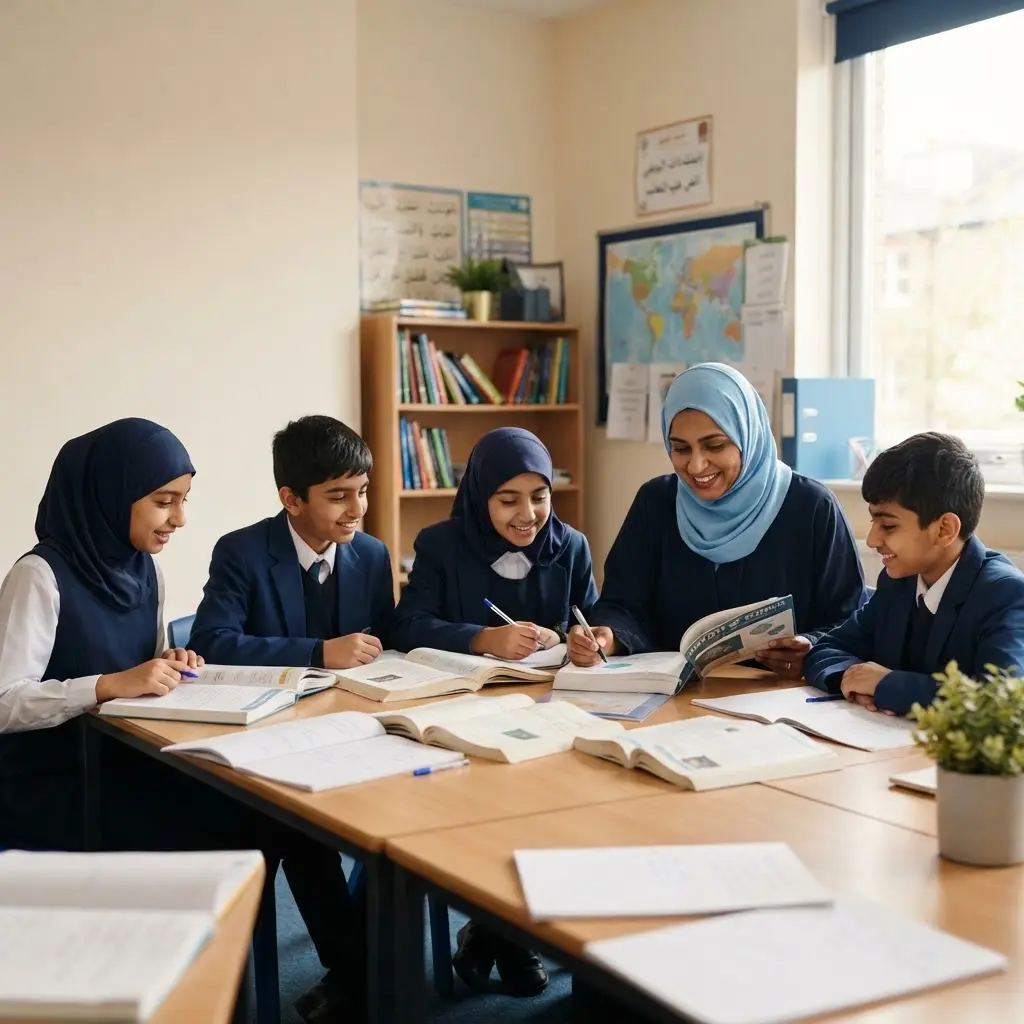
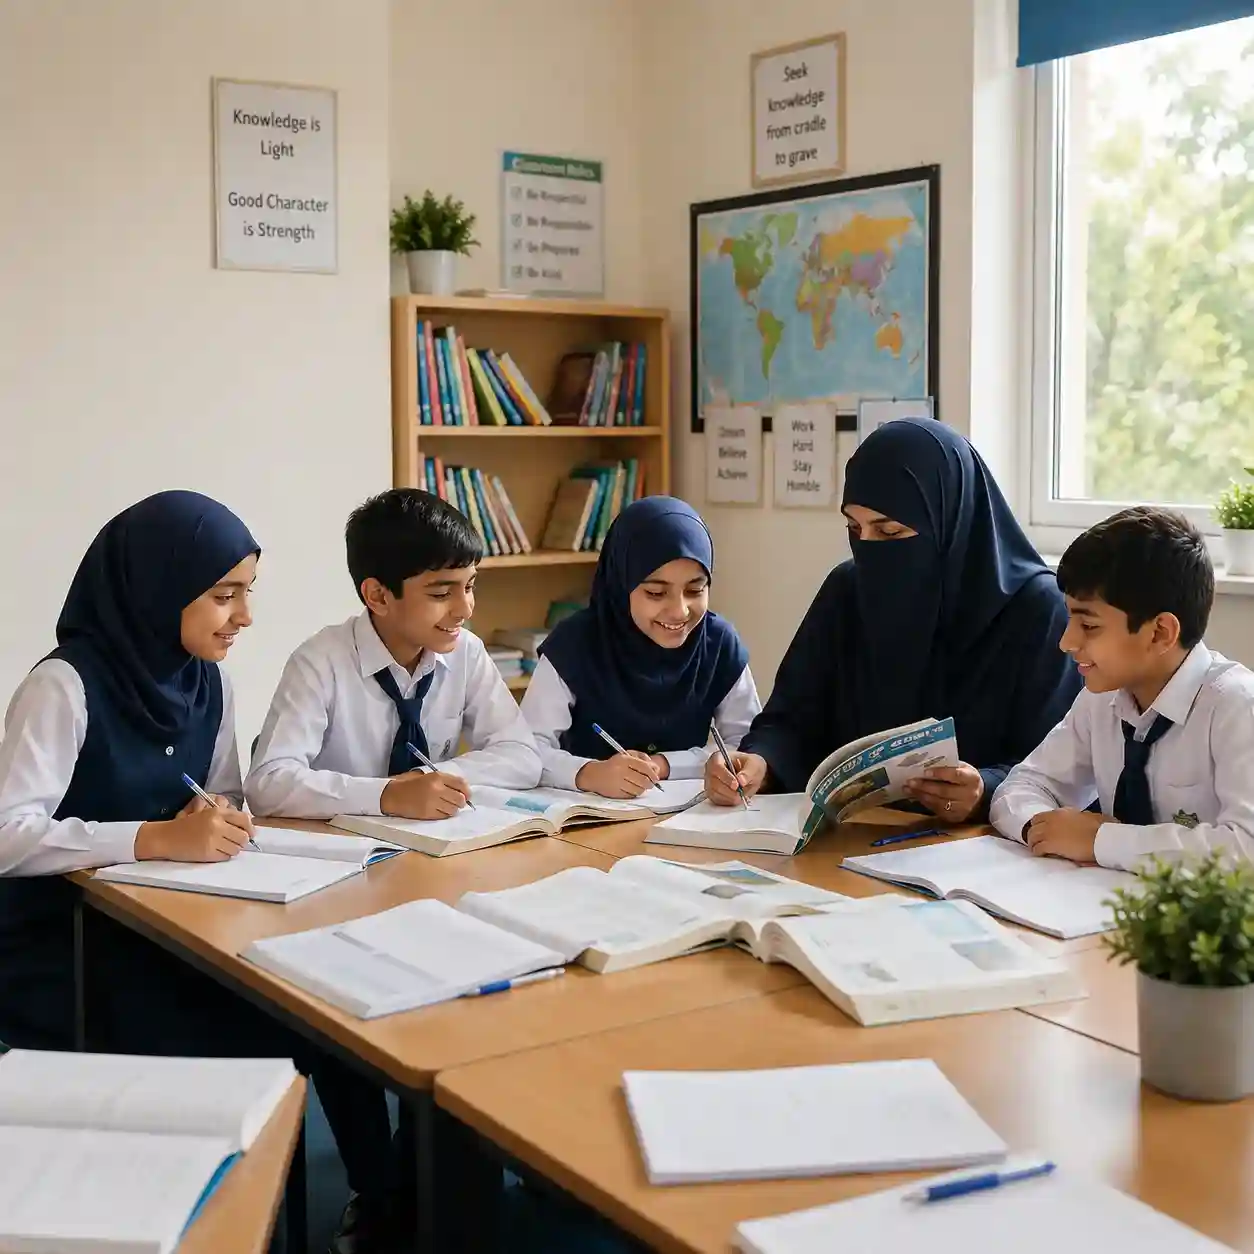
feat: Updated images of about and home section

diff --git a/components/home-hero.tsx b/components/home-hero.tsx
@@ -61,13 +61,13 @@ export function HomeHero() {
           <div className="absolute -bottom-5 -left-5 h-full w-full rounded-[2rem] bg-brand-sky" />
           <div className="relative overflow-hidden rounded-[2rem] border-8 border-brand-navy bg-brand-navy shadow-2xl shadow-brand-navy/20">
             <Image src="/images/about-classroom.webp" alt="Students learning together in an AMFS classroom" width={900} height={650} priority className="aspect-[4/3] w-full object-cover" />
-            <div className="absolute bottom-4 left-4 right-4 flex items-center justify-between rounded-2xl bg-white/95 p-4 shadow-lg backdrop-blur sm:bottom-5 sm:left-5 sm:right-5">
+            {/* <div className="absolute bottom-4 left-4 right-4 flex items-center justify-between rounded-2xl bg-white/95 p-4 shadow-lg backdrop-blur sm:bottom-5 sm:left-5 sm:right-5">
               <div>
                 <p className="text-[10px] font-bold uppercase tracking-[0.2em] text-brand-sky">Learning together</p>
                 <p className="mt-1 font-serif text-lg font-bold text-brand-navy">Every child can thrive.</p>
               </div>
               <LearningIllustration />
-            </div>
+            </div> */}
           </div>
           <div className="absolute -right-3 -top-5 rounded-2xl bg-brand-gold px-4 py-3 text-brand-navy shadow-lg sm:-right-6 sm:-top-6">
             <p className="font-serif text-2xl font-bold leading-none">5</p>

diff --git a/components/home-about.tsx b/components/home-about.tsx
@@ -14,10 +14,10 @@ export function HomeAbout() {
       <div className="mx-auto grid max-w-7xl gap-12 px-4 sm:px-6 lg:grid-cols-[1.05fr_0.95fr] lg:items-center lg:gap-20 lg:px-8">
         <div className="relative min-h-[450px]">
           <div className="absolute left-0 top-10 h-[72%] w-[68%] overflow-hidden rounded-[2rem] border-8 border-white shadow-xl">
-            <Image src="/images/about-learning.webp" alt="A child engaged in creative learning at AMFS" fill className="object-cover" />
+            <Image src="/images/about-classroom.webp" alt="A child engaged in creative learning at AMFS" fill className="object-cover" />
           </div>
           <div className="absolute bottom-0 right-0 h-[62%] w-[62%] overflow-hidden rounded-[2rem] border-8 border-brand-navy shadow-xl">
-            <Image src="/images/about-classroom.webp" alt="An AMFS classroom filled with collaborative learning" fill className="object-cover" />
+            <Image src="/images/about-learning.webp" alt="An AMFS classroom filled with collaborative learning" fill className="object-cover" />
           </div>
           <div className="absolute left-1/2 top-0 flex h-20 w-20 -translate-x-1/2 items-center justify-center rounded-full bg-brand-gold shadow-lg">
             <BookOpen className="h-9 w-9 text-brand-navy" aria-hidden="true" />
